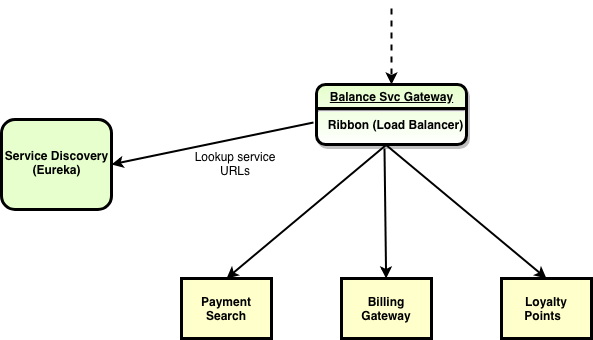
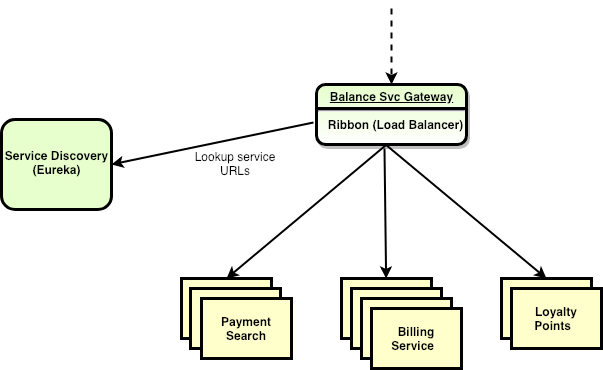
update eureka image

diff --git a/content/post/service_discovery_eureka.md b/content/post/service_discovery_eureka.md
@@ -41,14 +41,65 @@ The Service Discovery solution provided by Netflix for this pattern is Eureka. O
 
 ![Balance](/img/eureka.png)
 
+Services : 
+* In the above example, the services -- 'Payment Search', 'Billing Service' & 'Loyalty Points Svc' would register with the Eureka server when these individual service instances come online. As shown in the image, there could be multiple instances of each of those services. Each service instance would send its own metadata when registering with the Eureka server. The default metadata information include hostname, IP address, port numbers, status page and health check.
+* Each of the service instance would send a regular heartbeat message 
 
 
-#### Using Eureka for the services
 
-*Build Dependency :*  add the following dependency to your pom xml (or accordingly to gradle build file)
+#### Using Eureka Client 
+
+This is the configuration which would be used in the services which would lookup details of other services which it needs to interact. The information is looked up from Eureka Server.
+
+1.	*Build Dependency :*  add the following dependency to your pom xml (or accordingly to gradle build file)
 {{< highlight xml >}}
 <dependency>  
     <groupId>org.springframework.cloud</groupId>  
-    <artifactId>spring-cloud-starter-eureka</artifactId>  
-</dependency>  
+    <artifactId>spring-cloud-starter-netflix-eureka-client</artifactId>  
+</dependency>
+<dependency>
+    <groupId>org.springframework.cloud</groupId>
+    <artifactId>spring-cloud-starter-netflix-ribbon</artifactId>
+</dependency>
+{{< / highlight >}}
+or select "Eureka Discovery" & "Ribbon" when starting a project from https://start.spring.io/ page.
+
+2. *Configure in Spring Cloud :*	Add `@EnableDiscoveryClient` annotation to the `SpringApplication` class
+{{< highlight java "hl_lines=4" >}}
+import org.springframework.cloud.client.discovery.EnableDiscoveryClient;
+import org.springframework.cloud.client.loadbalancer.LoadBalanced;
+import org.springframework.context.annotation.Bean;
+import org.springframework.web.client.RestTemplate;
+// other code
+
+@EnableDiscoveryClient
+@SpringBootApplication
+//other annotations
+public class GatewayApplication {
+
+    @LoadBalanced
+	@Bean
+	RestTemplate restTemplate() {
+		return new RestTemplate();
+	}
+
+    public static void main(String[] args) {
+        SpringApplication.run(GatewayApplication.class, args);
+    }
+}
+{{< / highlight >}}
+
+3. *Invoking other services :*      Use the service names to refer to the service host name. The actual host & port details would be used from Eureka
+{{< highlight java "hl_lines=6" >}}
+public class BalanceGatewayService {
+    @Autowired
+    private RestTemplate restTemplate;
+
+    public LoyaltyPoints buildLoyaltyPointsBalance(String phoneNumber) {
+        LoyaltyPointsDetails loyaltyPoints = restTemplate.getForObject("http://loyalty-points-svc/phone-number/{phoneNumber}", LoyaltyPointsDetails.class, phoneNumber);
+        // more code
+    }        
+}
+
+
 {{< / highlight >}}
